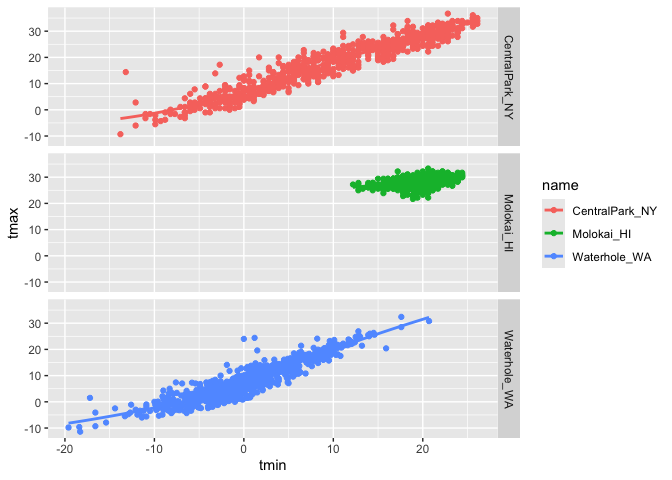
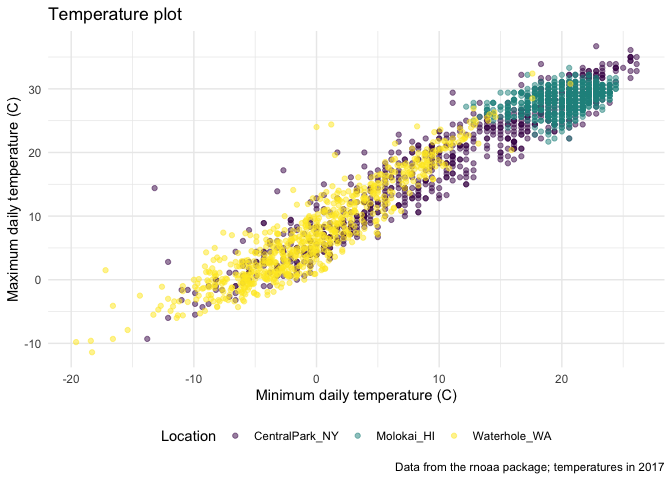
themes

diff --git a/viz_ii.md b/viz_ii.md
@@ -120,6 +120,7 @@ labs(
     ## (`geom_point()`).
 
 ![](viz_ii_files/figure-gfm/unnamed-chunk-3-1.png)<!-- --> \##Scales
+
 Start with the same plot, but now I can change the scale on each axis. I
 can also change the y axis so the values are plotted by the sqrt of the
 original.
@@ -151,11 +152,12 @@ scale_x_continuous(
     ## Warning: Removed 142 rows containing missing values or values outside the scale range
     ## (`geom_point()`).
 
-![](viz_ii_files/figure-gfm/unnamed-chunk-4-1.png)<!-- --> Adding color
-to scales. The numbers you enter into the hue function correspond to
-colors. The further the numbers are apart, I believe the further the
-difference in the hue. I am also telling the code to change name to
-location for the hues.
+![](viz_ii_files/figure-gfm/unnamed-chunk-4-1.png)<!-- -->
+
+Adding color to scales. The numbers you enter into the hue function
+correspond to colors. The further the numbers are apart, I believe the
+further the difference in the hue. I am also telling the code to change
+name to location for the hues.
 
 ``` r
 weather_df %>% 
@@ -199,3 +201,129 @@ labs(
     ## (`geom_point()`).
 
 ![](viz_ii_files/figure-gfm/unnamed-chunk-6-1.png)<!-- -->
+
+## Themes
+
+You can change the background of the plot, the location of legends, etc
+using the theme function.
+
+``` r
+weather_df %>% 
+  ggplot(aes(x = tmin, y=tmax, color = name)) +
+  geom_point(alpha=0.5) +
+labs(
+  title = "Temperature plot",
+  x = "Minimum daily temperature (C)",
+  y = "Maximum daily temperature (C)",
+  caption = "Data from the rnoaa package; temperatures in 2017"
+) +
+  viridis::scale_color_viridis(
+    name = "Location",
+    discrete = TRUE) +
+  theme(legend.position = "bottom") 
+```
+
+    ## Warning: Removed 17 rows containing missing values or values outside the scale range
+    ## (`geom_point()`).
+
+![](viz_ii_files/figure-gfm/unnamed-chunk-7-1.png)<!-- -->
+
+You can change the theme to black and white instead of gray in the
+background, and get rid of the box around the plot.
+
+``` r
+weather_df %>% 
+  ggplot(aes(x = tmin, y=tmax, color = name)) +
+  geom_point(alpha=0.5) +
+labs(
+  title = "Temperature plot",
+  x = "Minimum daily temperature (C)",
+  y = "Maximum daily temperature (C)",
+  caption = "Data from the rnoaa package; temperatures in 2017"
+) +
+  viridis::scale_color_viridis(
+    name = "Location",
+    discrete = TRUE) +
+  theme_minimal()
+```
+
+    ## Warning: Removed 17 rows containing missing values or values outside the scale range
+    ## (`geom_point()`).
+
+![](viz_ii_files/figure-gfm/unnamed-chunk-8-1.png)<!-- -->
+
+BUT the order in which you place the code for theme matters. It will use
+the last code for theme and override anything else previously entered.
+Example, you’ll see that the legend is not at the bottom anymore, though
+I’ve included it in the code.
+
+``` r
+weather_df %>% 
+  ggplot(aes(x = tmin, y=tmax, color = name)) +
+  geom_point(alpha=0.5) +
+labs(
+  title = "Temperature plot",
+  x = "Minimum daily temperature (C)",
+  y = "Maximum daily temperature (C)",
+  caption = "Data from the rnoaa package; temperatures in 2017"
+) +
+  viridis::scale_color_viridis(
+    name = "Location",
+    discrete = TRUE) +
+  theme(legend.position = "bottom") +
+  theme_minimal()
+```
+
+    ## Warning: Removed 17 rows containing missing values or values outside the scale range
+    ## (`geom_point()`).
+
+![](viz_ii_files/figure-gfm/unnamed-chunk-9-1.png)<!-- -->
+
+So you have to change the theme first
+
+``` r
+weather_df %>% 
+  ggplot(aes(x = tmin, y=tmax, color = name)) +
+  geom_point(alpha=0.5) +
+labs(
+  title = "Temperature plot",
+  x = "Minimum daily temperature (C)",
+  y = "Maximum daily temperature (C)",
+  caption = "Data from the rnoaa package; temperatures in 2017"
+) +
+  viridis::scale_color_viridis(
+    name = "Location",
+    discrete = TRUE) +
+  theme_minimal() +
+  theme(legend.position = "bottom") 
+```
+
+    ## Warning: Removed 17 rows containing missing values or values outside the scale range
+    ## (`geom_point()`).
+
+![](viz_ii_files/figure-gfm/unnamed-chunk-10-1.png)<!-- -->
+
+## Setting options
+
+So this is a set of code you can run at the beginning of your file once
+you load in tinyverse so that the plots you make already have this
+organization. But we set the evaluation to false so it’s not
+particularly run in this code. Asp = aspect ratio
+
+``` r
+library(tidyverse)
+
+knitr::opts_chunk$set(
+  fig.width = 6, 
+  fig.asp = 0.6, 
+  out.width = "90%"
+)
+
+theme_set(theme_minimal() + theme(legend.position = "bottom"))
+
+options(ggplot2.continuous.color = "viridis", 
+        ggplot2.continuous.fill ="viridis")
+
+scale_color_discrete = scale_color_viridis_d()
+scale_fill_discrete = scale_fill_viridis_d
+```
